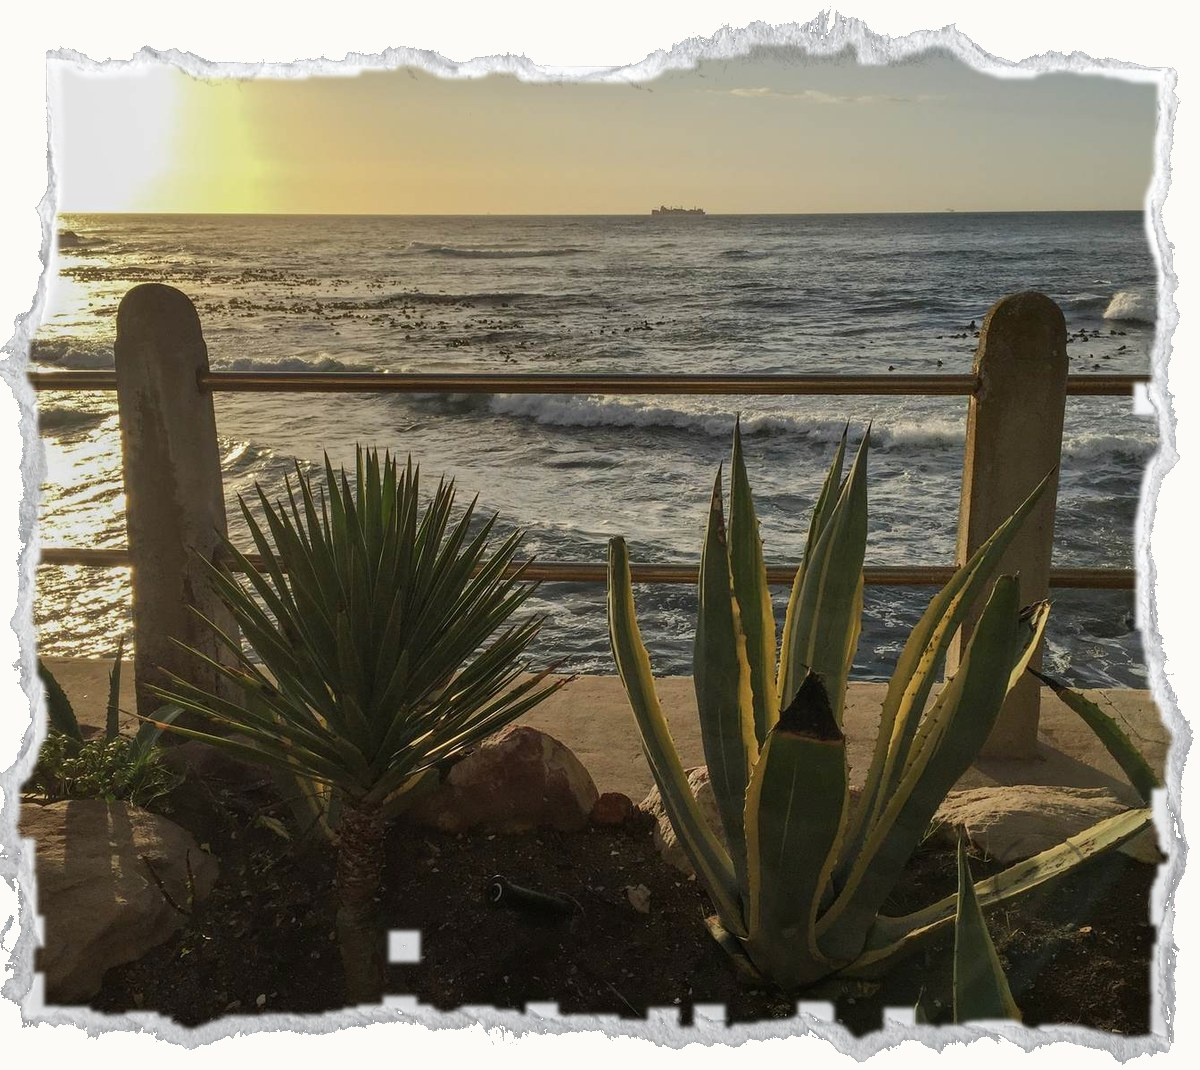
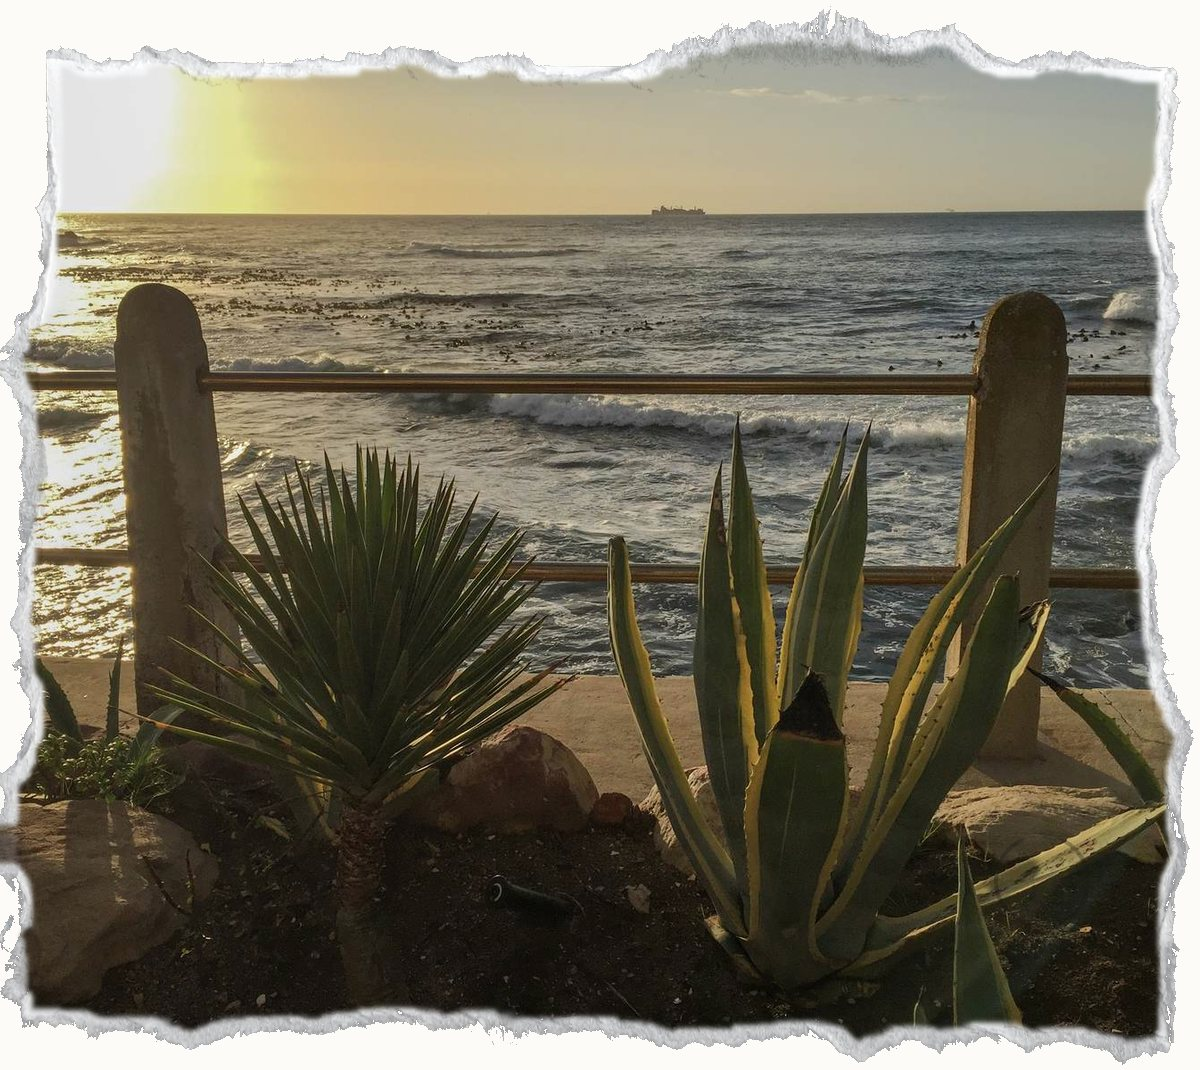
패치 u 시안 2: 종이결 바탕 선택자 보강, 찢은 종이 이미지 구멍 수정
Claude-Session: https://claude.ai/code/session_01F9LRgiTeBmkJ7htWjS4QcD

diff --git a/blog/capetown/patch/story_u_strong.html b/blog/capetown/patch/story_u_strong.html
@@ -287,7 +287,7 @@ html:not(#z1):not(#z2) .contents_style .fact{background:#EEF7F8!important;border
 <p class="num" data-ke-size="size16">②</p>
 <h2 data-ke-size="size26">대서양의 빛</h2>
 <div class="cl cl-r cl-torn"><div class="cl-f "><div class="one">
-<figure class="ph"><img src="https://41aurum.github.io/blog/capetown/mag2/torn_1975_ko.jpg?v=1" alt="해 질 녘 대서양 앞, 해안 산책로 울타리 너머 알로에와 금빛 바다" width="1600" height="1200" /></figure>
+<figure class="ph"><img src="https://41aurum.github.io/blog/capetown/mag2/torn_1975_ko.jpg?v=2" alt="해 질 녘 대서양 앞, 해안 산책로 울타리 너머 알로에와 금빛 바다" width="1600" height="1200" /></figure>
 </div>
 <p class="cap" data-ke-size="size16">알로에는 실루엣이 되고, 바다는 금빛으로 부서지네요</p></div><div class="cl-t"><p data-ke-size="size16">짐 풀고 바로 바다로 나갔어요. 오늘 할 일은 하나, 대서양 노을 보기.</p>
 
@@ -588,7 +588,7 @@ function cl(){busy=true;[].forEach.call(R.querySelectorAll(SEL),function(e){if(e
 if('MutationObserver' in window){var tm=null;var mo=new MutationObserver(function(){if(busy)return;clearTimeout(tm);tm=setTimeout(cl,250);});mo.observe(R,{subtree:true,attributes:true,attributeFilter:['style']});setTimeout(function(){mo.disconnect();},20000);}
 })();</script>
 <script>(function(){function f(){document.querySelectorAll('.contents_style .fact').forEach(function(e){e.style.setProperty('background','transparent','important');e.style.setProperty('border','0','important');e.style.setProperty('border-top','1px solid #13314A','important');e.style.setProperty('border-bottom','1px solid #D9E2E1','important');});}setTimeout(f,0);document.addEventListener('DOMContentLoaded',function(){setTimeout(f,60)});window.addEventListener('load',function(){setTimeout(f,120);setTimeout(f,800)});})();</script><style>/*ad1125u*/
-html body,html body #wrap,html body .content-wrap,html body #content{background-color:#FDFBF7!important;background-image:url(https://41aurum.github.io/blog/capetown/mag2/paper_strong.jpg?v=1)!important;background-size:1080px auto!important;background-repeat:repeat!important}
+html:not(#z1):has(.ag-c-cpt),html:not(#z1) body:has(.ag-c-cpt),html:not(#z1) #wrap:has(.ag-c-cpt){background-color:#FDFBF7!important;background-image:url(https://41aurum.github.io/blog/capetown/mag2/paper_strong.jpg?v=2)!important;background-size:1080px auto!important;background-repeat:repeat!important}html:not(#z1) #container:has(.ag-c-cpt),html:not(#z1) .main:has(.ag-c-cpt),html:not(#z1) .area-main:has(.ag-c-cpt),html:not(#z1) .area-view:has(.ag-c-cpt),html:not(#z1) .article-view:has(.ag-c-cpt),html:not(#z1) .tt_article_useless_p_margin:has(.ag-c-cpt){background:transparent!important}
 #agcpt,#agcpt .ctw,#agcpt .cp-cover{background-color:transparent!important;background-image:none!important}
 #agcpt figure.ph{position:relative}#agcpt figure.ph::after{content:"";position:absolute;inset:0;background:url(https://41aurum.github.io/blog/capetown/mag2/paper_mid.jpg?v=1);background-size:1080px auto;mix-blend-mode:multiply;opacity:.55;pointer-events:none}
 #agcpt .cl{display:grid!important;grid-template-columns:5fr 7fr;gap:44px;align-items:center;margin:64px 0!important}

diff --git a/blog/capetown/patch/story_u_weak.html b/blog/capetown/patch/story_u_weak.html
@@ -287,7 +287,7 @@ html:not(#z1):not(#z2) .contents_style .fact{background:#EEF7F8!important;border
 <p class="num" data-ke-size="size16">②</p>
 <h2 data-ke-size="size26">대서양의 빛</h2>
 <div class="cl cl-r cl-torn"><div class="cl-f "><div class="one">
-<figure class="ph"><img src="https://41aurum.github.io/blog/capetown/mag2/torn_1975_ko.jpg?v=1" alt="해 질 녘 대서양 앞, 해안 산책로 울타리 너머 알로에와 금빛 바다" width="1600" height="1200" /></figure>
+<figure class="ph"><img src="https://41aurum.github.io/blog/capetown/mag2/torn_1975_ko.jpg?v=2" alt="해 질 녘 대서양 앞, 해안 산책로 울타리 너머 알로에와 금빛 바다" width="1600" height="1200" /></figure>
 </div>
 <p class="cap" data-ke-size="size16">알로에는 실루엣이 되고, 바다는 금빛으로 부서지네요</p></div><div class="cl-t"><p data-ke-size="size16">짐 풀고 바로 바다로 나갔어요. 오늘 할 일은 하나, 대서양 노을 보기.</p>
 
@@ -588,7 +588,7 @@ function cl(){busy=true;[].forEach.call(R.querySelectorAll(SEL),function(e){if(e
 if('MutationObserver' in window){var tm=null;var mo=new MutationObserver(function(){if(busy)return;clearTimeout(tm);tm=setTimeout(cl,250);});mo.observe(R,{subtree:true,attributes:true,attributeFilter:['style']});setTimeout(function(){mo.disconnect();},20000);}
 })();</script>
 <script>(function(){function f(){document.querySelectorAll('.contents_style .fact').forEach(function(e){e.style.setProperty('background','transparent','important');e.style.setProperty('border','0','important');e.style.setProperty('border-top','1px solid #13314A','important');e.style.setProperty('border-bottom','1px solid #D9E2E1','important');});}setTimeout(f,0);document.addEventListener('DOMContentLoaded',function(){setTimeout(f,60)});window.addEventListener('load',function(){setTimeout(f,120);setTimeout(f,800)});})();</script><style>/*ad1125u*/
-html body,html body #wrap,html body .content-wrap,html body #content{background-color:#FDFBF7!important;background-image:url(https://41aurum.github.io/blog/capetown/mag2/paper_weak.jpg?v=1)!important;background-size:1080px auto!important;background-repeat:repeat!important}
+html:not(#z1):has(.ag-c-cpt),html:not(#z1) body:has(.ag-c-cpt),html:not(#z1) #wrap:has(.ag-c-cpt){background-color:#FDFBF7!important;background-image:url(https://41aurum.github.io/blog/capetown/mag2/paper_weak.jpg?v=2)!important;background-size:1080px auto!important;background-repeat:repeat!important}html:not(#z1) #container:has(.ag-c-cpt),html:not(#z1) .main:has(.ag-c-cpt),html:not(#z1) .area-main:has(.ag-c-cpt),html:not(#z1) .area-view:has(.ag-c-cpt),html:not(#z1) .article-view:has(.ag-c-cpt),html:not(#z1) .tt_article_useless_p_margin:has(.ag-c-cpt){background:transparent!important}
 #agcpt,#agcpt .ctw,#agcpt .cp-cover{background-color:transparent!important;background-image:none!important}
 #agcpt figure.ph{position:relative}#agcpt figure.ph::after{content:"";position:absolute;inset:0;background:url(https://41aurum.github.io/blog/capetown/mag2/paper_mid.jpg?v=1);background-size:1080px auto;mix-blend-mode:multiply;opacity:.55;pointer-events:none}
 #agcpt .cl{display:grid!important;grid-template-columns:5fr 7fr;gap:44px;align-items:center;margin:64px 0!important}

diff --git a/blog/capetown/patch/story_u_mid.html b/blog/capetown/patch/story_u_mid.html
@@ -287,7 +287,7 @@ html:not(#z1):not(#z2) .contents_style .fact{background:#EEF7F8!important;border
 <p class="num" data-ke-size="size16">②</p>
 <h2 data-ke-size="size26">대서양의 빛</h2>
 <div class="cl cl-r cl-torn"><div class="cl-f "><div class="one">
-<figure class="ph"><img src="https://41aurum.github.io/blog/capetown/mag2/torn_1975_ko.jpg?v=1" alt="해 질 녘 대서양 앞, 해안 산책로 울타리 너머 알로에와 금빛 바다" width="1600" height="1200" /></figure>
+<figure class="ph"><img src="https://41aurum.github.io/blog/capetown/mag2/torn_1975_ko.jpg?v=2" alt="해 질 녘 대서양 앞, 해안 산책로 울타리 너머 알로에와 금빛 바다" width="1600" height="1200" /></figure>
 </div>
 <p class="cap" data-ke-size="size16">알로에는 실루엣이 되고, 바다는 금빛으로 부서지네요</p></div><div class="cl-t"><p data-ke-size="size16">짐 풀고 바로 바다로 나갔어요. 오늘 할 일은 하나, 대서양 노을 보기.</p>
 
@@ -588,7 +588,7 @@ function cl(){busy=true;[].forEach.call(R.querySelectorAll(SEL),function(e){if(e
 if('MutationObserver' in window){var tm=null;var mo=new MutationObserver(function(){if(busy)return;clearTimeout(tm);tm=setTimeout(cl,250);});mo.observe(R,{subtree:true,attributes:true,attributeFilter:['style']});setTimeout(function(){mo.disconnect();},20000);}
 })();</script>
 <script>(function(){function f(){document.querySelectorAll('.contents_style .fact').forEach(function(e){e.style.setProperty('background','transparent','important');e.style.setProperty('border','0','important');e.style.setProperty('border-top','1px solid #13314A','important');e.style.setProperty('border-bottom','1px solid #D9E2E1','important');});}setTimeout(f,0);document.addEventListener('DOMContentLoaded',function(){setTimeout(f,60)});window.addEventListener('load',function(){setTimeout(f,120);setTimeout(f,800)});})();</script><style>/*ad1125u*/
-html body,html body #wrap,html body .content-wrap,html body #content{background-color:#FDFBF7!important;background-image:url(https://41aurum.github.io/blog/capetown/mag2/paper_mid.jpg?v=1)!important;background-size:1080px auto!important;background-repeat:repeat!important}
+html:not(#z1):has(.ag-c-cpt),html:not(#z1) body:has(.ag-c-cpt),html:not(#z1) #wrap:has(.ag-c-cpt){background-color:#FDFBF7!important;background-image:url(https://41aurum.github.io/blog/capetown/mag2/paper_mid.jpg?v=2)!important;background-size:1080px auto!important;background-repeat:repeat!important}html:not(#z1) #container:has(.ag-c-cpt),html:not(#z1) .main:has(.ag-c-cpt),html:not(#z1) .area-main:has(.ag-c-cpt),html:not(#z1) .area-view:has(.ag-c-cpt),html:not(#z1) .article-view:has(.ag-c-cpt),html:not(#z1) .tt_article_useless_p_margin:has(.ag-c-cpt){background:transparent!important}
 #agcpt,#agcpt .ctw,#agcpt .cp-cover{background-color:transparent!important;background-image:none!important}
 #agcpt figure.ph{position:relative}#agcpt figure.ph::after{content:"";position:absolute;inset:0;background:url(https://41aurum.github.io/blog/capetown/mag2/paper_mid.jpg?v=1);background-size:1080px auto;mix-blend-mode:multiply;opacity:.55;pointer-events:none}
 #agcpt .cl{display:grid!important;grid-template-columns:5fr 7fr;gap:44px;align-items:center;margin:64px 0!important}
